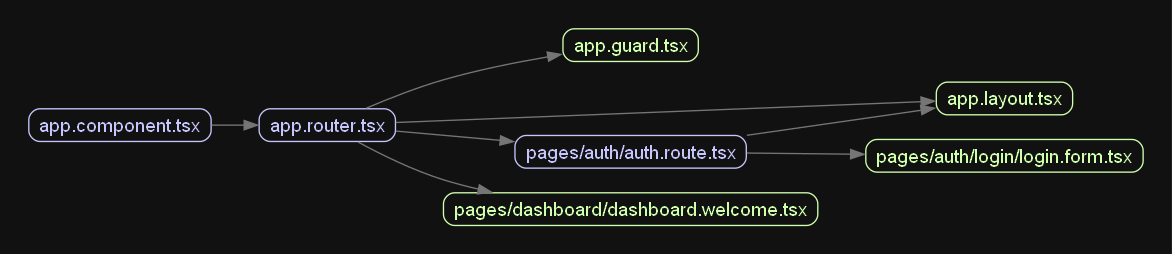
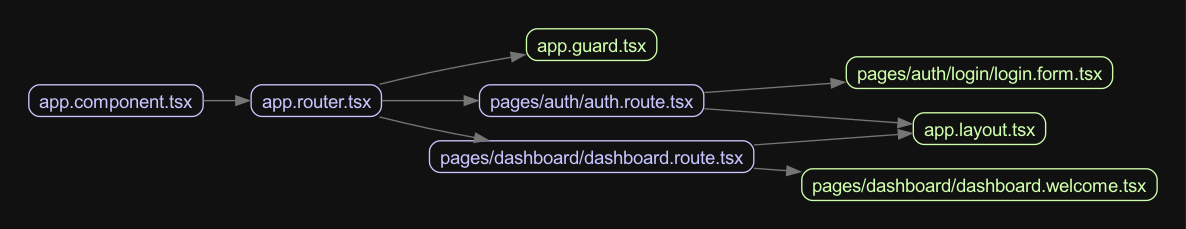
add nested route

Changed region(s): [[0.0, 0.0917, 0.9829, 0.917], [0.0307, 0.5502, 0.1843, 0.5808]]

diff --git a/apps/react/src/app.router.tsx b/apps/react/src/app.router.tsx
@@ -1,5 +1,4 @@
 import { createBrowserRouter } from "react-router-dom";
-
 import { Guard } from "./app.guard";
 import AuthRoute from "./pages/auth/auth.route";
 import DashboardRoute from "./pages/dashboard/dashboard.route";
@@ -9,14 +8,14 @@ const routes = [
     element: <Guard />,
     children: [
       {
-        path: 'dashboard/*',
-        element: <DashboardRoute />
-      }
-    ]
+        path: "dashboard/*",
+        element: <DashboardRoute />,
+      },
+    ],
   },
   {
-    path: '*',
-    element: <AuthRoute />
+    path: "*",
+    element: <AuthRoute />,
   },
 ];
 

diff --git a/apps/react/src/app.component.tsx b/apps/react/src/app.component.tsx
@@ -1,11 +1,10 @@
-import { RouterProvider } from "react-router-dom";
-import { router } from "./app.router";
+import { RouterProvider } from 'react-router-dom';
+import { router } from './app.router';
 
 function App() {
-  return <RouterProvider router={router} />
+  return <RouterProvider router={router} />;
 }
 
 export default App;
-
 
 // npx madge src/app.component.tsx --image src/app.graph.png --warning

diff --git a/apps/react/src/pages/dashboard/dashboard.route.tsx b/apps/react/src/pages/dashboard/dashboard.route.tsx
@@ -8,8 +8,8 @@ const Welcome = lazy(() => import('./dashboard.welcome'));
 function DashboardRoute() {
   const routes = useRoutes([
     {
-      path: '/*',
-      element: <Layout module="dashboard" component={Welcome} />
+      path: '/',
+      element: <Layout module='dashboard' view='welcome' component={Welcome} />
     }
   ]);
 

diff --git a/apps/react/src/pages/auth/auth.route.tsx b/apps/react/src/pages/auth/auth.route.tsx
@@ -9,7 +9,11 @@ function AuthRoute() {
   const routes = useRoutes([
     {
       path: '/login',
-      element: <Layout module="auth" view="login" component={Login} />
+      element: <Layout module='auth' view='login' component={Login} />
+    },
+    {
+      path: '*',
+      element: <div>NOT FOUND</div>
     }
   ]);
 

diff --git a/apps/react/src/app.layout.tsx b/apps/react/src/app.layout.tsx
@@ -7,7 +7,7 @@ interface IProps extends ContextProps {
 
 export function Layout({ component: Component, ...props }: IProps) {
   return (
-    <Suspense fallback={'...loading'}>
+    <Suspense fallback={"...loading"}>
       <Component {...props} />
     </Suspense>
   );

diff --git a/docs/04_react/02_structure/015_refactor_nested_route.md b/docs/04_react/02_structure/015_refactor_nested_route.md
@@ -1,0 +1,103 @@
+# Refactor Router with Nested Routes
+
+## 1. Create Auth Route
+
+Navigate to the auth folder and create a new file named auth.route.tsx.
+
+```tsx
+import { lazy } from 'react';
+import { useRoutes } from 'react-router-dom';
+
+import { Layout } from '../../app.layout';
+
+const Login = lazy(() => import('./login/login.form'));
+
+function AuthRoute() {
+  const routes = useRoutes([
+    {
+      path: '/login',
+      element: <Layout module='auth' view='login' component={Login} />,
+    },
+    {
+      path: '*',
+      element: <div>NOT FOUND</div>,
+    },
+  ]);
+
+  return routes;
+}
+
+export default AuthRoute;
+```
+
+## 2. Create Dashboard Route
+
+Navigate to the dashboard folder and create a new file named dashboard.route.tsx.
+
+```tsx
+import { lazy } from 'react';
+import { useRoutes } from 'react-router-dom';
+
+import { Layout } from '../../app.layout';
+
+const Welcome = lazy(() => import('./dashboard.welcome'));
+
+function DashboardRoute() {
+  const routes = useRoutes([
+    {
+      path: '/',
+      element: <Layout module='dashboard' view='welcome' component={Welcome} />,
+    },
+  ]);
+
+  return routes;
+}
+
+export default DashboardRoute;
+```
+
+## 3. Update App Router
+
+Navigate to app.router.tsx and import auth.route.tsx and dashboard.route.tsx. Remove the import statements for the Login and Welcome components.
+
+```tsx
+import { createBrowserRouter } from 'react-router-dom';
+import { Guard } from './app.guard';
+import AuthRoute from './pages/auth/auth.route';
+import DashboardRoute from './pages/dashboard/dashboard.route';
+
+const routes = [
+  {
+    element: <Guard />,
+    children: [
+      {
+        path: 'dashboard/*',
+        element: <DashboardRoute />,
+      },
+    ],
+  },
+  {
+    path: '*',
+    element: <AuthRoute />,
+  },
+];
+
+export const router = createBrowserRouter(routes);
+```
+
+The first route with path: 'dashboard/\*' is intended to handle any sub-routes under /dashboard/ when protected by the <Guard /> component. It associates the DashboardRoute component with such routes.
+
+The second route with path: '\*' serves as a catch-all route. If the URL doesn't match the dashboard pattern, it defaults to the <AuthRoute /> component. This might be a login page or an authentication-related route.
+
+In the context of the React Router, the path property specifies the URL path that the route should match. The '_' and 'dashboard/_' are examples of path patterns.
+
+path: 'dashboard/\*':
+
+This path pattern means that the route will match any URL that starts with /dashboard/ and can have any additional segments after that (_is a wildcard for any characters).
+For example, it will match /dashboard/home, /dashboard/profile, /dashboard/settings, and so on.
+path: '_':
+
+This is a wildcard path that matches any URL. It is often used as a fallback or a catch-all route when no other specific route matches the given URL.
+For example, if none of the defined routes match the current URL, the route with path: '\*' will be used, and it might be configured to display a "Not Found" page or handle the situation in some specific way.
+
+Make sure to replace "./path/to/auth.route" and "./path/to/dashboard.route" with the actual relative paths to your auth.route.tsx and dashboard.route.tsx files.

diff --git a/docs/04_react/02_structure/014_commit_add_login.md b/docs/04_react/02_structure/014_commit_add_login.md
@@ -1,11 +1,11 @@
-# Summary of Updates:
+# Summary of Updates
 
-## 1. Added Login Page (`login.form.tsx`):
+## 1. Added Login Page (`login.form.tsx`)
 
 - Created a new file named `login.form.tsx` within the 'auth' folder.
 - Implemented the `Login` component in this file.
 
-## 2. Updated App Guard (`app.guard.tsx`):
+## 2. Updated App Guard (`app.guard.tsx`)
 
 - Enhanced the `Guard` component with an `isAuthenticated` boolean.
 - Used `useEffect` to check authentication status (`!isAuthenticated`) and redirect to '/login' if necessary.

diff --git a/docs/00_helps/003_visual_code.md b/docs/00_helps/003_visual_code.md
@@ -1,0 +1,3 @@
+# Extension
+
+Prettier - Code formatter
